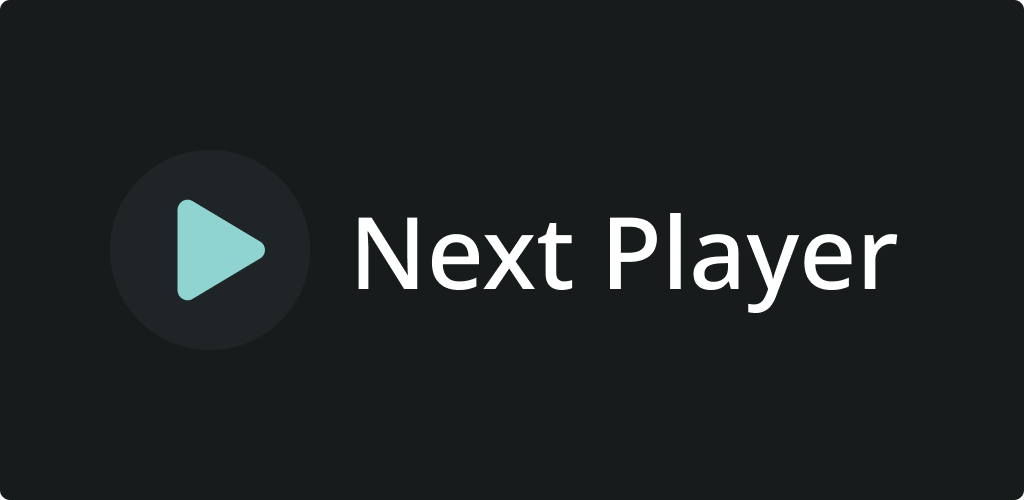
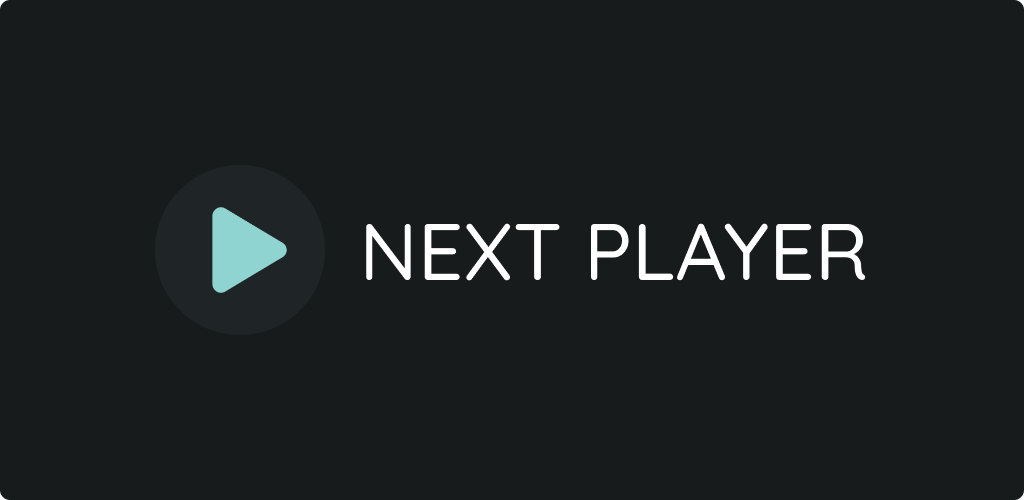
Build: Prepare for v0.9.0 release (#631)
* build: bump version to 0.9.0 and versioncode to 11

* add fdroid links to readme

* update banner

* set mediasession to null on player release

Changed region(s): [[0.3438, 0.42, 0.875, 0.6], [0.1562, 0.39, 0.2812, 0.6], [0.7188, 0.6, 0.75, 0.63]]

diff --git a/feature/player/src/main/java/dev/anilbeesetti/nextplayer/feature/player/PlayerActivity.kt b/feature/player/src/main/java/dev/anilbeesetti/nextplayer/feature/player/PlayerActivity.kt
@@ -523,6 +523,7 @@ class PlayerActivity : AppCompatActivity() {
         player.removeListener(playbackStateListener)
         player.release()
         mediaSession?.release()
+        mediaSession = null
     }
 
     private fun playbackStateListener() = object : Player.Listener {

diff --git a/README.md b/README.md
@@ -5,15 +5,20 @@
 [![GitHub release (latest SemVer)](https://img.shields.io/github/v/release/anilbeesetti/nextplayer.svg?logo=github&label=GitHub&cacheSeconds=3600)](https://github.com/anilbeesetti/nextplayer/releases/latest)
 [![Google Play](https://img.shields.io/endpoint?color=green&logo=google-play&url=https%3A%2F%2Fplay.cuzi.workers.dev%2Fplay%3Fi%3Ddev.anilbeesetti.nextplayer%26l%3DGoogle%2520Play%26m%3Dv%24version)](https://play.google.com/store/apps/details?id=dev.anilbeesetti.nextplayer)
 [![IzzyOnDroid](https://img.shields.io/endpoint?url=https://apt.izzysoft.de/fdroid/api/v1/shield/dev.anilbeesetti.nextplayer)](https://apt.izzysoft.de/fdroid/index/apk/dev.anilbeesetti.nextplayer)
+[![F-Droid](https://img.shields.io/f-droid/v/dev.anilbeesetti.nextplayer?logo=f-droid&label=F-Droid&cacheSeconds=3600)](https://f-droid.org/packages/dev.anilbeesetti.nextplayer)
 [![GitHub all releases](https://img.shields.io/github/downloads/anilbeesetti/nextplayer/total?logo=github&cacheSeconds=3600)](https://github.com/anilbeesetti/nextplayer/releases/latest)
 [![Google Play](https://img.shields.io/endpoint?color=green&logo=google-play&url=https%3A%2F%2Fplay.cuzi.workers.dev%2Fplay%3Fi%3Ddev.anilbeesetti.nextplayer%26l%3Ddownloads%26m%3D%24totalinstalls)](https://play.google.com/store/apps/details?id=dev.anilbeesetti.nextplayer)
 [![Weblate project translated](https://img.shields.io/weblate/progress/next-player?logo=weblate&logoColor=white&cacheSeconds=36000)](https://hosted.weblate.org/engage/next-player/)
 
-Next Player is an Android native video player written in Kotlin. It provides a simple and easy-to-use interface for users to play videos on their Android devices
+Next Player is an Android native video player written in Kotlin. It provides a simple and easy-to-use interface for users to play videos on their
+Android devices
 
-**This project is still in development and is expected to have bugs. Please report any bugs you find in the [Issues](https://github.com/anilbeesetti/nextplayer/issues) section.**
+**This project is still in development and is expected to have bugs. Please report any bugs you find in
+the [Issues](https://github.com/anilbeesetti/nextplayer/issues) section.**
 
-<a href='https://play.google.com/store/apps/details?id=dev.anilbeesetti.nextplayer'><img alt='Get it on Google Play' src='https://play.google.com/intl/en_us/badges/static/images/badges/en_badge_web_generic.png' height="80"/></a><a href='https://apt.izzysoft.de/fdroid/index/apk/dev.anilbeesetti.nextplayer'><img alt='Get it on IzzyOnDroid' src='https://gitlab.com/IzzyOnDroid/repo/-/raw/master/assets/IzzyOnDroid.png' height="80"/></a>
+[<img src="https://play.google.com/intl/en_us/badges/static/images/badges/en_badge_web_generic.png" alt="Get it on Google Play" height="80"/>](https://play.google.com/store/apps/details?id=dev.anilbeesetti.nextplayer)
+[<img src="https://gitlab.com/IzzyOnDroid/repo/-/raw/master/assets/IzzyOnDroid.png" alt="Get it on IzzyOnDroid" height="80">](https://apt.izzysoft.de/fdroid/index/apk/dev.anilbeesetti.nextplayer)
+[<img src="https://fdroid.gitlab.io/artwork/badge/get-it-on.png" alt="Get it on F-Droid" height="80">](https://f-droid.org/packages/dev.anilbeesetti.nextplayer/)
 
 ## Screenshots
 
@@ -31,7 +36,7 @@ Next Player is an Android native video player written in Kotlin. It provides a s
 ### Player Ui
 
 <div style="width:100%; display:flex; justify-content:space-between;">
-    
+
 [<img src="fastlane/metadata/android/en-US/images/phoneScreenshots/6.png" width=49% alt="Player">](fastlane/metadata/android/en-US/images/phoneScreenshots/6.png)
 [<img src="fastlane/metadata/android/en-US/images/phoneScreenshots/7.png" width=49% alt="Player">](fastlane/metadata/android/en-US/images/phoneScreenshots/7.png)
 </div>
@@ -40,12 +45,14 @@ Next Player is an Android native video player written in Kotlin. It provides a s
 
 - **Video**: H.263, H.264 AVC (Baseline Profile; Main Profile on Android 6+), H.265 HEVC, MPEG-4 SP, VP8, VP9, AV1
     - Support depends on Android device
-- **Audio**: Vorbis, Opus, FLAC, ALAC, PCM/WAVE (μ-law, A-law), MP1, MP2, MP3, AMR (NB, WB), AAC (LC, ELD, HE; xHE on Android 9+), AC-3, E-AC-3, DTS, DTS-HD, TrueHD
+- **Audio**: Vorbis, Opus, FLAC, ALAC, PCM/WAVE (μ-law, A-law), MP1, MP2, MP3, AMR (NB, WB), AAC (LC, ELD, HE; xHE on Android 9+), AC-3, E-AC-3, DTS,
+  DTS-HD, TrueHD
     - Support provided by ExoPlayer FFmpeg extension
 - **Subtitles**: SRT, SSA, ASS, TTML, VTT, DVB
     - SSA/ASS has limited styling support see [this issue](https://github.com/google/ExoPlayer/issues/8435)
 
 ## Features
+
 - Native Android app with simple and easy-to-use interface
 - Completely free and open source and without any ads or excessive permissions
 - Software decoders for h264 and hevc
@@ -61,6 +68,7 @@ Next Player is an Android native video player written in Kotlin. It provides a s
 - Zoom gesture
 
 ## Planned Features
+
 - External Audio support
 - Picture-in-picture mode
 
@@ -92,4 +100,5 @@ You can help translate Next Player on [Hosted Weblate](https://hosted.weblate.or
 Thanks to **Weblate** for providing free hosting for the project.
 
 ## License
+
 Next Player is licensed under the GNU General Public License v3.0. See the [LICENSE](LICENSE) file for more information.
